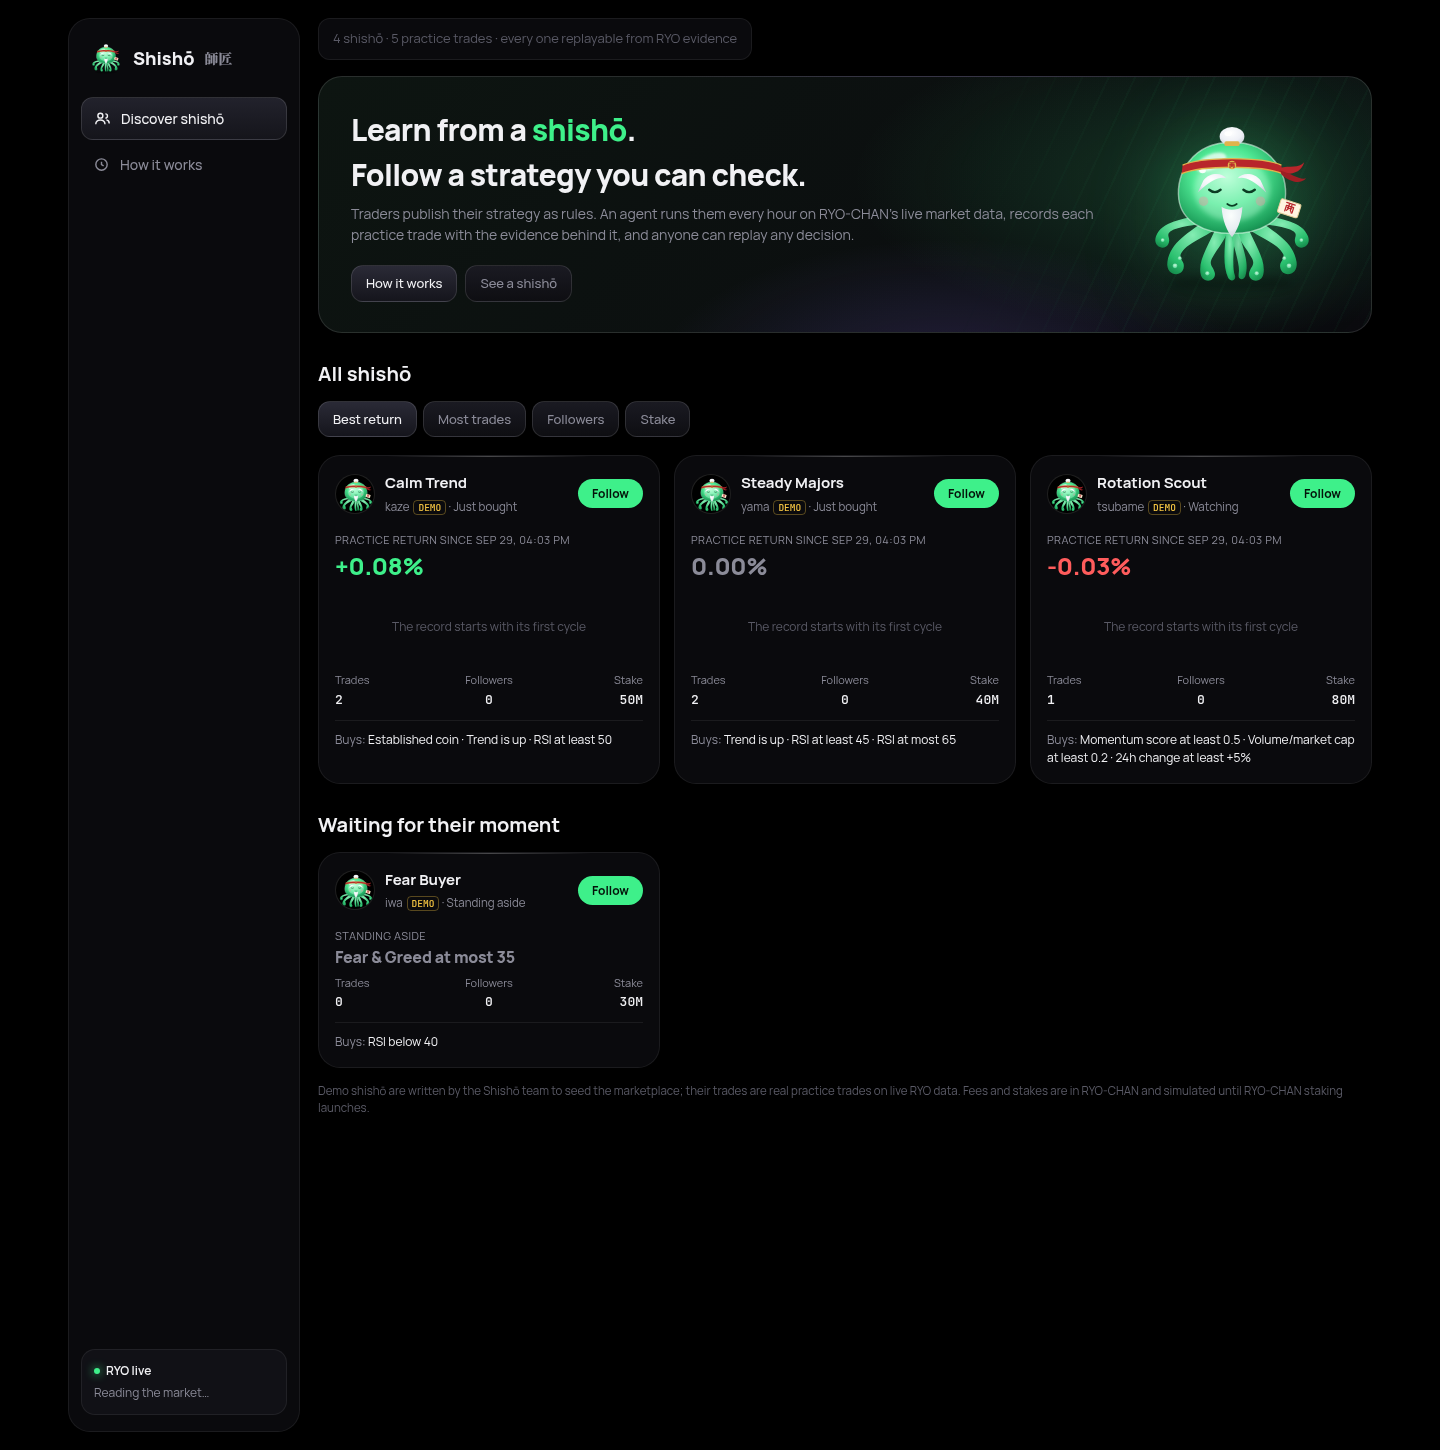
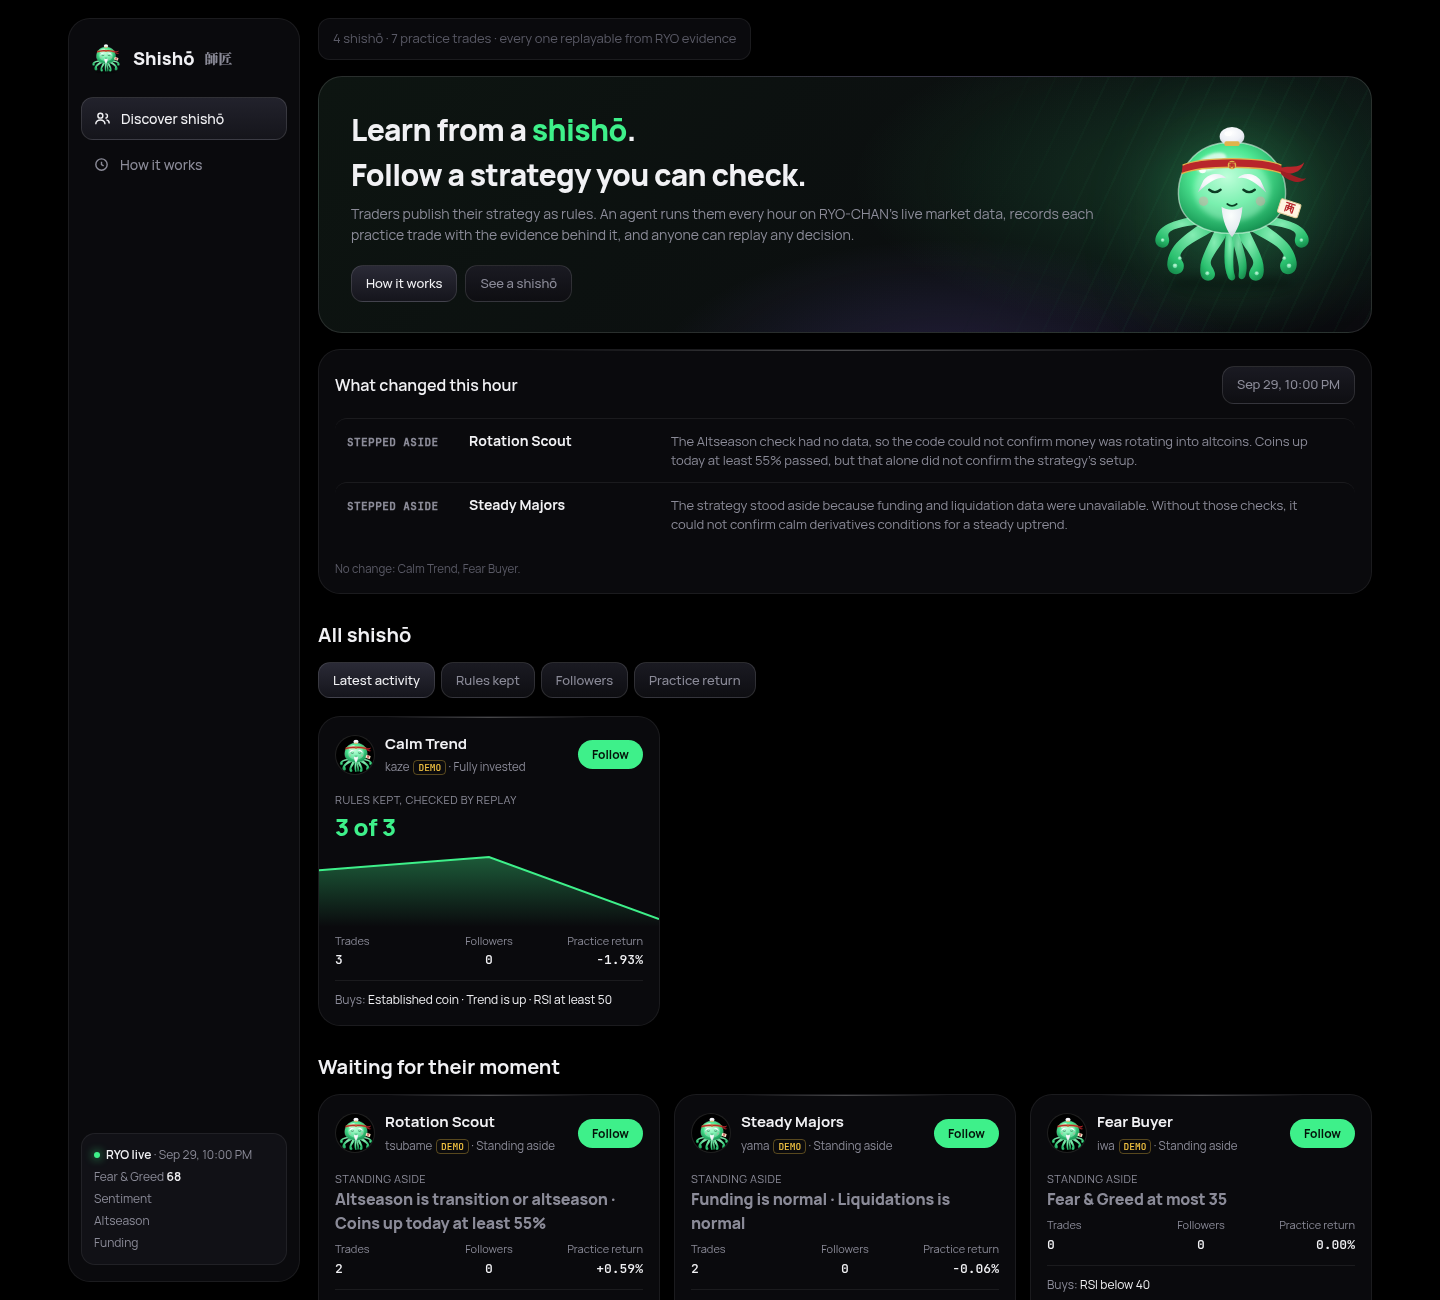
What changed this hour, ranked by importance; cards lead with rules kept, not profit

diff --git a/public/index.html b/public/index.html
@@ -48,6 +48,11 @@
   .rng { position: relative; height: 8px; border-radius: 4px; background: linear-gradient(90deg, #ff8a5c66, #16161d 40%, #16161d 60%, #3ef08a66); margin: 12px 0 6px; }
   .rng b { position: absolute; top: -5px; width: 3px; height: 18px; border-radius: 2px; background: var(--ink); }
   .ends { display: flex; justify-content: space-between; font: 400 11px "JetBrains Mono"; color: var(--muted); }
+  .changes .chg { display: grid; grid-template-columns: 110px 190px 1fr auto; gap: 12px; align-items: baseline; padding: 11px 12px; border-radius: 12px; color: inherit; text-decoration: none; border-top: 1px solid var(--line); }
+  .changes .chg:hover { background: #ffffff06; }
+  .changes .why { color: var(--muted); font-size: 13px; }
+  @media (max-width: 900px) { .changes .chg { grid-template-columns: 1fr; gap: 4px; } }
+  .kind.vetoed { color: #b8a6ff; }
   .back { color: var(--muted); text-decoration: none; font-size: 13px; }
   .empty { color: var(--dim); padding: 30px; text-align: center; }
   .rules { display: flex; flex-wrap: wrap; gap: 6px; margin-top: 12px; }
@@ -97,25 +102,26 @@ function spark(vals, color) {
 function market(m, at) {
   if (!m) return;
   $("#mkt").innerHTML = `<span><span class="dot"></span><b>RYO live</b> · ${esc(when(at))}</span>
-    <span>Fear &amp; Greed <b>${esc(m.fear_greed)}</b></span><span>Sentiment <b>${esc((m.sentiment_regime || "").replace(/_/g, " "))}</b></span>
-    <span>Altseason <b>${esc(m.altseason_phase)}</b></span><span>Funding <b>${esc(m.funding_crowding)}</b></span>`;
+    <span>Fear &amp; Greed <b>${esc(m.fear_greed ?? "no data")}</b></span><span>Sentiment <b>${esc((m.sentiment_regime || "no data").replace(/_/g, " "))}</b></span>
+    <span>Altseason <b>${esc(m.altseason_phase ?? "no data")}</b></span><span>Funding <b>${esc(m.funding_crowding ?? "no data")}</b></span>`;
 }
 
 // ── Discover ──
-let sortBy = "return";
+let sortBy = "latest";
 async function discover() {
   const st = await api("/api/state");
   market(st.market, st.updated_at);
   const decided = st.shisho.reduce((a, s) => a + s.trades, 0);
-  const sorters = { return: (a, b) => b.return_pct - a.return_pct, followers: (a, b) => b.followers - a.followers, stake: (a, b) => b.stake.remaining - a.stake.remaining, trades: (a, b) => b.trades - a.trades };
+  const rank = Object.fromEntries((st.changes.items || []).map((c, i) => [c.strategy, i]));
+  const sorters = { latest: (a, b) => (rank[a.id] ?? 99) - (rank[b.id] ?? 99), kept: (a, b) => b.rules_kept.kept - a.rules_kept.kept, followers: (a, b) => b.followers - a.followers, return: (a, b) => b.return_pct - a.return_pct };
   const list = [...st.shisho].sort(sorters[sortBy]);
   const active = list.filter(s => s.state !== "stand_aside"), waiting = list.filter(s => s.state === "stand_aside");
   const cardHtml = (s, i) => `<a class="card" href="#/s/${esc(s.id)}">
       <div class="who"><div class="ava"><img src="tako-sensei.svg" width="40" height="40" alt=""></div><div><b>${esc(s.name)}</b><small>${esc(s.creator.handle)}${s.creator.demo ? '<span class="tag">DEMO</span>' : ""} · ${esc(STATE[s.state] || s.state)}</small></div><span class="copy">Follow</span></div>
       ${s.state === "stand_aside"
-        ? `<div class="roi">STANDING ASIDE<b class="flat" style="font-size:16px">${esc(s.rules.market.join(" · ") || "Market rules not met")}</b></div>`
-        : `<div class="roi">PRACTICE RETURN SINCE ${esc(when(s.started_at).toUpperCase())}<b class="${cls(s.return_pct)}">${pct(s.return_pct)}</b></div>${spark(s.spark, COLORS[i % 4])}`}
-      <div class="stats"><div>Trades<b>${s.trades}</b></div><div>Followers<b>${s.followers}</b></div><div>${s.win_rate == null ? "Stake" : "Win rate"}<b>${s.win_rate == null ? big(s.stake.remaining) : s.win_rate + "%"}</b></div></div>
+        ? `<div class="roi">STANDING ASIDE<span style="display:block;color:var(--ink);font-size:13.5px;line-height:1.5;margin-top:6px;letter-spacing:0">${esc(s.last_note || ("Waiting for: " + s.rules.market.join(" · ")))}</span></div>`
+        : `<div class="roi">RULES KEPT, CHECKED BY REPLAY<b class="up">${s.rules_kept.kept} of ${s.rules_kept.checked}</b></div>${spark(s.spark, COLORS[i % 4])}`}
+      <div class="stats"><div>Trades<b>${s.trades}</b></div><div>Followers<b>${s.followers}</b></div><div>Practice return<b class="${cls(s.return_pct)}">${pct(s.return_pct)}</b></div></div>
       <div class="rule">Buys: <span>${esc(s.rules.entry.slice(0, 3).join(" · "))}</span></div></a>`;
   $("#main").innerHTML = `
     <div class="top"><div class="search">${list.length} shishō · ${decided} practice trades · every one replayable from RYO evidence</div></div>
@@ -124,8 +130,14 @@ async function discover() {
       <p>Traders publish their strategy as rules. An agent runs them every hour on RYO-CHAN's live market data, records each practice trade with the evidence behind it, and anyone can replay any decision.</p>
       <div class="btns"><a class="pill on" href="#/how">How it works</a><a class="pill" href="#/s/${esc(list[0]?.id || "")}">See a shishō</a></div>
       <img class="mascot" src="tako-sensei.svg" width="190" height="190" alt="Tako Sensei, the Shishō mascot"></section>
+    <section class="card changes" style="margin-top:16px">
+      <div class="head"><h3>What changed this hour</h3><div class="r"><span class="pill">${esc(when(st.changes.at))}</span></div></div>
+      ${(st.changes.items || []).length ? st.changes.items.map(c => `<a class="chg" href="#/s/${esc(c.strategy)}"><span class="kind ${c.kind}">${esc(({ exit: "sold", enter: "bought", vetoed: "vetoed", stand_aside: "stepped aside", no_entry: "watching", full: "fully invested", unmarked: "couldn't price", no_candidates: "scan down" })[c.kind] || c.kind)}</span><b>${esc(c.name)}${c.symbol ? " · " + esc(c.symbol) : ""}</b><span class="why">${esc(c.text)}</span>${c.council ? `<span class="badge info">council: ${esc(c.council)}</span>` : ""}</a>`).join("")
+        : `<p class="note">Nothing changed this hour.</p>`}
+      ${(st.changes.quiet || []).length ? `<p class="note">No change: ${st.changes.quiet.map(q => esc(q.name)).join(", ")}.</p>` : ""}
+    </section>
     <div class="sec"><h2>All shishō</h2></div>
-    <div class="filters">${[["return", "Best return"], ["trades", "Most trades"], ["followers", "Followers"], ["stake", "Stake"]].map(([k, l]) => `<button class="pill${k === sortBy ? " on" : ""}" data-sort="${k}">${l}</button>`).join("")}</div>
+    <div class="filters">${[["latest", "Latest activity"], ["kept", "Rules kept"], ["followers", "Followers"], ["return", "Practice return"]].map(([k, l]) => `<button class="pill${k === sortBy ? " on" : ""}" data-sort="${k}">${l}</button>`).join("")}</div>
     <div class="cards">${active.map(cardHtml).join("")}</div>
     ${waiting.length ? `<div class="sec"><h2>Waiting for their moment</h2></div><div class="cards">${waiting.map((s, i) => cardHtml(s, i + active.length)).join("")}</div>` : ""}
     <p class="note">Demo shishō are written by the Shishō team to seed the marketplace; their trades are real practice trades on live RYO data. Fees and stakes are in RYO-CHAN and simulated until RYO-CHAN staking launches.</p>`;

diff --git a/src/api.js b/src/api.js
@@ -23,13 +23,37 @@ function card(s, all, fl) {
     started_at: r.started_at, cycles: r.cycles, spark: week.map(([, v]) => v),
     followers: fl.filter(f => f.strategy === s.id).length,
     fee: feeSplit(s.follow_fee_ryochan), stake: stakeStatus(s),
+    get rules_kept() { return { checked: this.stake.checked, kept: this.stake.checked - this.stake.breaches }; },
     state: last?.kind || "new", last_at: last?.at || null, last_note: last?.note?.text || null,
   };
 }
 
+// What changed in the latest cycle, most important first: money moved (sold,
+// bought, vetoed) before a shishō that changed its stance, before no change.
+const RANK = { exit: 0, enter: 1, vetoed: 2, unmarked: 3, no_candidates: 3, stand_aside: 4, no_entry: 5, full: 6 };
+function changes(all, strategies) {
+  const cycles = [...new Set(all.map(d => d.at))].sort();
+  const now = cycles.at(-1), before = cycles.at(-2);
+  if (!now) return { at: null, items: [], quiet: [] };
+  const byId = Object.fromEntries(strategies.map(s => [s.id, s]));
+  const items = [], quiet = [];
+  for (const s of strategies) {
+    const mine = all.filter(d => d.strategy === s.id && d.at === now);
+    const prev = all.filter(d => d.strategy === s.id && d.at === before).map(d => d.kind);
+    for (const d of mine) {
+      const changed = !prev.includes(d.kind) || ["exit", "enter", "vetoed"].includes(d.kind);
+      const row = { strategy: s.id, name: s.name, kind: d.kind, symbol: d.symbol || null, at: d.at, rank: RANK[d.kind] ?? 7,
+        text: d.note?.text || plainNote(byId[s.id], d), pnl_pct: d.pnl_pct ?? null, council: d.council?.verdict || null, was: prev[0] || null };
+      (changed ? items : quiet).push(row);
+    }
+  }
+  items.sort((a, b) => a.rank - b.rank);
+  return { at: now, items, quiet };
+}
+
 export function state() {
-  const all = decisions(), fl = follows();
-  return { updated_at: latest()?.at || null, market: latest()?.market || null, shisho: loadStrategies().map(s => card(s, all, fl)) };
+  const all = decisions(), fl = follows(), strategies = loadStrategies();
+  return { updated_at: latest()?.at || null, market: latest()?.market || null, changes: changes(all, strategies), shisho: strategies.map(s => card(s, all, fl)) };
 }
 
 export function shisho(id) {
